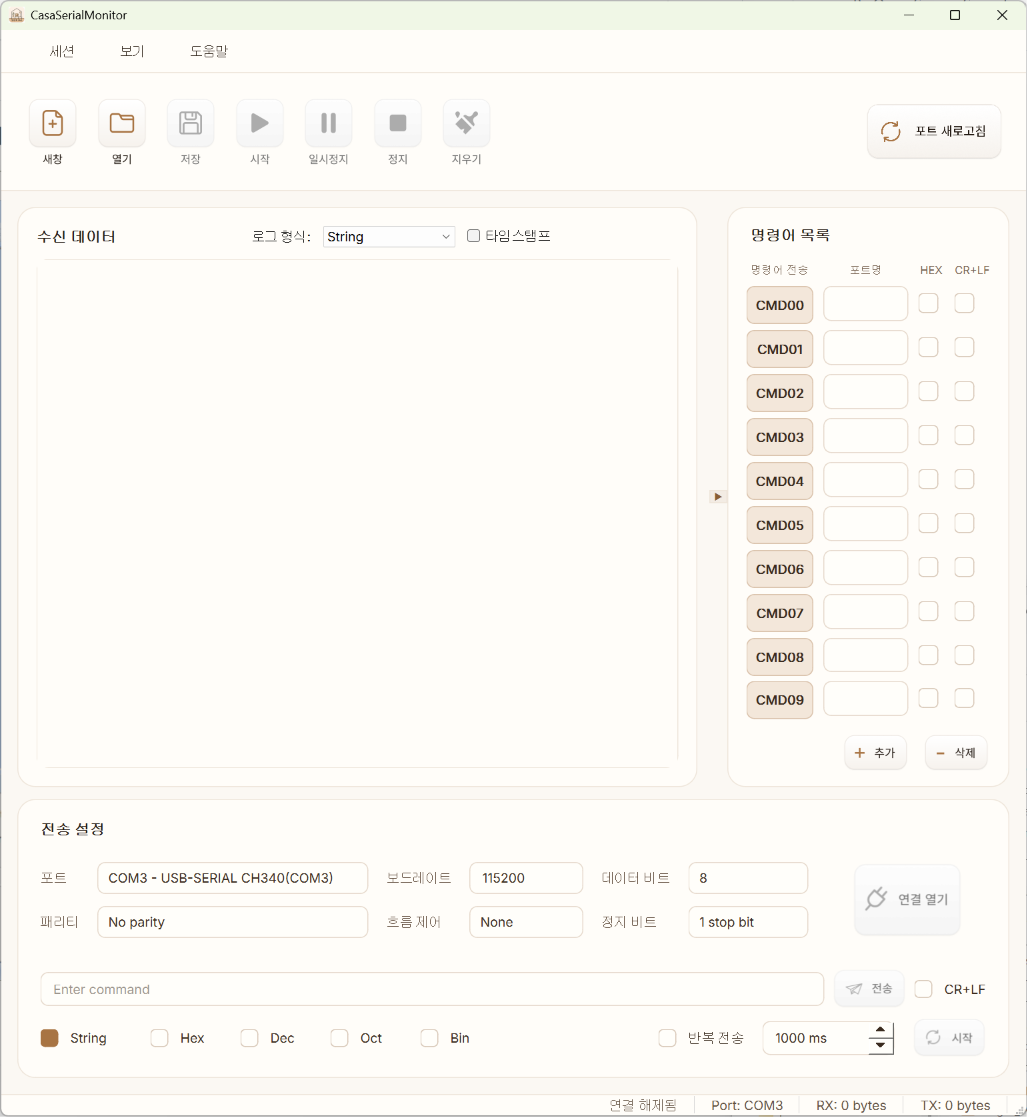
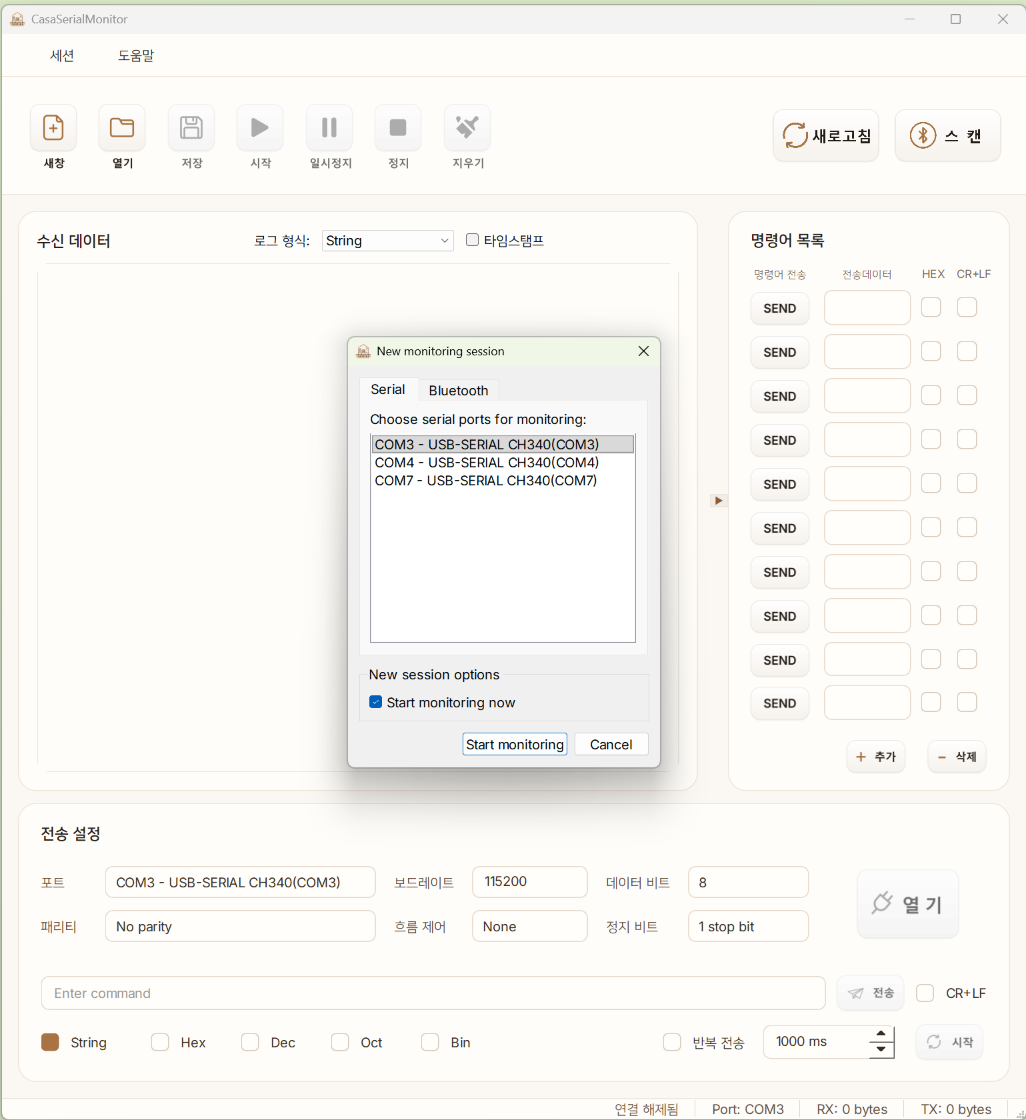
[V.0.01.211] README.md 전면 재작성(상세 사용법, 최신 기능 반영), 스크린샷 갱신

diff --git a/app_resources.py b/app_resources.py
@@ -7,7 +7,7 @@ import sys
 
 
 APP_NAME = "CasaSerialMonitor"
-APP_VERSION = "0.01.210"  # 버전을 올릴 때 installer/CasaSerial.iss의 기본값도 함께 바꾼다
+APP_VERSION = "0.01.211"  # 버전을 올릴 때 installer/CasaSerial.iss의 기본값도 함께 바꾼다
 ICON_RELATIVE_PATH = Path("image") / "CASA_Serial_APP_ICON.png"
 BUTTONS_RELATIVE_PATH = Path("image") / "buttons"
 MAIN_WINDOW_UI_RELATIVE_PATH = Path("UI") / "mainWindow.ui"

diff --git a/README.md b/README.md
@@ -1,27 +1,117 @@
 # CasaSerial
 
-PyQt6와 pyserial 기반의 크로스 플랫폼 시리얼 포트 모니터입니다. Windows 10/11과 macOS를 지원합니다.
+시리얼 포트와 블루투스 LE(Nordic UART Service) 장치의 통신을 한 화면에서 모니터링하고 데이터를 보낼 수 있는 크로스 플랫폼 데스크톱 앱입니다. PyQt6, pyserial, bleak로 만들었고 Windows 10/11과 macOS를 대상으로 합니다.
 
 ![CasaSerial](CasaSerialMonitor.png)
 
+## 목차
+
+- [주요 기능](#주요-기능)
+- [화면 구성](#화면-구성)
+- [사용 방법](#사용-방법)
+- [단축키](#단축키)
+- [저장되는 설정](#저장되는-설정)
+- [요구 사항](#요구-사항)
+- [설치 및 실행](#설치-및-실행)
+- [빌드와 설치 파일 만들기](#빌드와-설치-파일-만들기)
+- [블루투스(BLE) 동작 방식](#블루투스ble-동작-방식)
+- [알려진 제한 사항](#알려진-제한-사항)
+- [프로젝트 구조](#프로젝트-구조)
+- [문서](#문서)
+- [로드맵](#로드맵)
+
 ## 주요 기능
 
-- **포트 스캔**: 시작할 때 사용 가능한 시리얼 포트를 검색하고, `새로고침` 버튼으로 다시 검색
-- **연결 설정**: Port, Baudrate, Databits, Parity, Flow control, Stopbits
-- **멀티 세션(MDI)**: New Session 다이얼로그의 `Serial` / `Bluetooth` 탭에서 포트 또는 BLE 장치를 골라 여러 세션을 동시에 모니터링
-- **송신**: String / Hex / Dec / Oct / Bin 포맷, 입력 유효성 검사 및 자동 포맷, CR+LF 옵션
-- **블루투스(BLE)**: 툴바의 `블루투스 스캔`으로 주변 장치를 검색하고(이름/주소 필터), Nordic UART Service(NUS) 장치에 연결. 연결되면 버튼이 `블루투스 연결종료`로 바뀜. 연결된 세션에서도 시리얼과 동일하게 송수신 가능
-- **반복 송신**: 주기적 자동 송신 (Start/Stop loop)
-- **CMD 패널**: 자주 쓰는 명령을 행 단위로 추가/삭제하며 관리
-- **로그 뷰**: RX/TX/ERR/SESSION 카테고리별 색상, Timestamp 표시, Dump view, 최대 5000라인
-- **UI**: 한국어, 웜 베이지 테마, 반응형 레이아웃
+### 연결
+
+- **시리얼 포트**: Port, Baudrate(9600 ~ 115200 선택, 직접 입력 가능), Data bits(5 ~ 8), Parity(No parity / Odd / Even / Mark / Space), Flow control(None / RTS/CTS / XON/XOFF), Stop bits(1 / 1.5 / 2)를 설정해 연결합니다.
+- **포트 검색**: 앱을 시작할 때 사용 가능한 포트를 검색하고, 툴바의 `새로고침` 버튼으로 다시 검색합니다. (자동으로 반복 검색하지 않습니다.)
+- **블루투스 LE**: 주변 BLE 장치를 스캔해 Nordic UART Service(NUS)를 지원하는 장치에 연결합니다. 연결한 뒤에는 시리얼과 같은 방식으로 송수신합니다.
+- **멀티 세션**: 여러 포트/장치를 동시에 연결해 각각 별도 세션으로 모니터링합니다. 세션이 이미 열려 있는 창에서 새 세션을 열면 별도의 창으로 열립니다.
+
+### 송신
+
+- **전송 형식**: String / Hex / Dec / Oct / Bin 중에서 고릅니다. 입력 내용은 형식에 맞는지 검사하고 자동으로 정리하며, 형식을 바꾸면 입력한 내용도 새 형식으로 변환합니다.
+- **CR+LF**: 체크하면 보내는 데이터 끝에 `\r\n`을 붙입니다.
+- **반복 전송**: 지정한 간격(1 ms ~ 3,600,000 ms)으로 같은 데이터를 계속 보냅니다.
+- **명령어 목록**: 자주 쓰는 명령어를 행마다 저장해 두고 `SEND` 버튼으로 바로 보냅니다. 행마다 HEX / CR+LF를 따로 지정하고, 행은 최대 20개까지 추가/삭제할 수 있습니다. 내용은 연결 대상(포트 또는 블루투스 장치)별로 따로 저장됩니다.
+
+### 수신 로그
+
+- **로그 형식**: String / Hex / Dec / Oct / Bin으로 표시하고, 타임스탬프를 켜고 끌 수 있습니다.
+- **Dump view**: 로그 형식이 `Hex`이면 `HEX 값  |  ASCII` 형태로 함께 보여 줍니다. `String`이면 HEX 없이 문자열만 표시합니다. (`\r`, `\n`, `\t`는 눈에 보이는 문자로 표시)
+- **색상 구분**: RX(파랑) / TX(초록) / SESSION(회색) / ERR(빨강)으로 구분하고, 로그는 최대 5,000줄까지 유지합니다.
+- **저장/열기**: 수신한 데이터를 16바이트씩 줄바꿈한 HEX 텍스트 파일(`.cas`)로 저장하고, 저장한 파일을 열어 다시 볼 수 있습니다. 열기는 저장된 파일을 세션 창으로 불러옵니다.
+
+### 화면
+
+- 한국어 화면, 웜 베이지 테마, 창 크기에 맞춰 늘어나는 레이아웃
+- 영문/숫자는 Inter, 한글은 나눔스퀘어, 로그는 D2Coding 폰트를 사용합니다.
+- 오른쪽 `명령어 목록` 패널은 가운데 작은 화살표 버튼으로 접고 펼 수 있습니다.
+
+## 화면 구성
+
+| 영역 | 설명 |
+| --- | --- |
+| 메뉴 | `세션`(포트 새로고침, 세션 닫기), `도움말`(이 앱에 관하여) |
+| 툴바 | `새창` 세션 추가, `열기` 저장한 로그 열기, `저장` 수신 데이터 저장, `지우기` 로그 지우기, `새로고침` 포트 다시 검색, `스캔` 블루투스 스캔 |
+| 수신 데이터 | 세션별 로그 창, 위쪽에서 로그 형식과 타임스탬프 지정 |
+| 명령어 목록 | `SEND` 버튼, 전송 데이터, HEX / CR+LF 지정 |
+| 전송 설정 | 포트와 시리얼 설정, 오른쪽의 연결 열기/닫기 버튼 |
+| 전송 | 명령 입력창, 전송 형식, CR+LF, 반복 전송 |
+| 상태 표시줄 | 연결 상태, 포트(또는 블루투스 장치), RX/TX 바이트 수 |
+
+툴바의 `시작`, `일시정지`, `정지` 버튼은 자리만 있고 아직 동작하지 않습니다. (비활성 상태)
+
+## 사용 방법
+
+### 시리얼 포트로 연결
+
+1. 앱을 시작하면 `New monitoring session` 창이 자동으로 열립니다. (툴바의 `새창`으로도 열 수 있습니다.)
+2. `Serial` 탭에서 포트를 고르고 `Start monitoring`을 누릅니다. 포트를 더블클릭해도 같습니다.
+3. `Start monitoring now`가 체크돼 있으면 세션을 만들면서 바로 연결합니다. 체크를 풀었다면 아래 `전송 설정`에서 보드레이트 등을 바꾼 뒤 오른쪽의 연결 버튼(`열 기`)을 눌러 연결합니다.
+4. 수신한 데이터는 로그 창에 표시됩니다. 아래 전송 영역에서 명령을 입력하고 `전송`(또는 Enter)을 누르면 보냅니다.
+
+### 블루투스(BLE)로 연결
+
+1. 툴바의 `스캔` 버튼을 누르거나, `New monitoring session` 창의 `Bluetooth` 탭을 엽니다. 창이 열려 있는 동안 주변 장치를 계속 검색합니다.
+2. 필터 입력창에 장치 이름이나 주소의 일부를 적어 목록을 줄입니다. 이름이 없는 장치는 `(이름 없음)`으로 표시됩니다.
+3. 장치를 선택하고 `연결`(또는 더블클릭)을 누릅니다. 연결되면 새 세션 창이 열립니다.
+4. 블루투스 세션에서는 `전송 설정`의 시리얼 항목이 흐리게 표시되고, 제목 옆에 `기기명 연결됨`(이름이 없으면 BD 주소)이 나옵니다.
+5. 툴바의 블루투스 버튼이 `연결종료`로 바뀝니다. 누르면 연결을 끊습니다. 끊긴 세션은 `전송 설정` 오른쪽의 연결 버튼으로 같은 장치에 다시 연결할 수 있습니다.
+
+### 여러 세션 / 별도 창
+
+- 세션이 하나도 없는 창에서 세션을 열면 그 창에 열리고, 창을 꽉 채워 보여 줍니다.
+- 세션이 이미 있는 창에서 `새창`이나 `스캔`으로 새 세션을 열면 **새 창**이 추가로 열립니다. 새 창에도 같은 툴바, 전송 영역, 명령어 목록이 있어 각 창에서 독립적으로 송수신합니다.
+- 같은 시리얼 포트는 한 번에 한 곳에서만 열 수 있습니다. (운영체제 제한)
+
+### 명령어 목록 사용
+
+- 전송 데이터를 입력하고 `SEND`를 누르면 현재 선택된 세션으로 보냅니다. `HEX`를 체크하면 `41 54`처럼 HEX 값으로 입력하고, `CR+LF`를 체크하면 끝에 `\r\n`을 붙입니다.
+- 목록은 연결 대상별로 따로 저장됩니다. 포트는 포트 이름(예: `COM7`), 블루투스는 장치 이름(이름이 없으면 주소) 기준입니다. 세션을 바꾸면 그 대상의 목록으로 바뀌고, 처음 연결하는 대상은 빈 목록(10행)으로 시작합니다.
+- `추가`, `삭제`로 행을 늘리거나 줄입니다. (1 ~ 20행)
+
+## 단축키
+
+| 키 | 동작 |
+| --- | --- |
+| `Ctrl+W` | 현재 세션 닫기 (연결 중이면 연결을 끊고 닫음) |
+| `Ctrl+X` | 로그 창에서 로그 지우기 |
+
+## 저장되는 설정
+
+- 명령어 목록(전송 데이터, HEX / CR+LF 지정, 행 수)을 연결 대상별로 저장합니다. 앱을 닫을 때, `SEND`로 전송에 성공했을 때, 다른 세션으로 전환할 때 저장합니다.
+- 저장 위치: Windows는 레지스트리 `HKEY_CURRENT_USER\Software\CasaSerial\CasaSerial`, macOS는 사용자 환경설정(plist)입니다.
+- 여러 창에서 같은 대상을 동시에 쓰면 마지막으로 저장한 창의 내용이 남습니다.
 
 ## 요구 사항
 
-- Python 3.10 이상
+- Python 3.10 이상 (3.11에서 개발하고 확인했습니다)
 - PyQt6 >= 6.6
 - pyserial >= 3.5
 - bleak >= 0.22 (블루투스 LE)
+- 블루투스를 쓰려면 블루투스 어댑터가 있어야 하며, 운영체제에서 블루투스가 켜져 있어야 합니다.
 
 ## 설치 및 실행
 
@@ -30,43 +120,86 @@ pip install -r requirements.txt
 python main.py
 ```
 
-- Windows: `run.bat` 실행 (`.venv`가 있으면 자동 사용)
+- Windows: `run.bat`을 실행합니다. 가상환경(`.venv`)이 있으면 자동으로 사용하고, 터미널 창 없이 앱만 실행합니다. 오류 메시지를 보려면 `run.bat --console`로 실행합니다.
 - macOS: `./run_mac.sh`
 
-## 빌드 (PyInstaller)
+## 빌드와 설치 파일 만들기
 
-| 플랫폼 | 명령 | 결과 |
+빌드 결과는 모두 `WIN`(Windows) 또는 `MAC`(macOS) 폴더 아래에 만들어지며, 이 폴더는 Git에 올라가지 않습니다.
+
+| 목적 | 명령 | 결과 |
 | --- | --- | --- |
-| Windows | `.\build_win.bat` | `WIN\CasaSerial\CasaSerial.exe` |
-| Windows 설치 파일 | `.\build_setup.bat` (Inno Setup 필요) | `WIN\Setup\CasaSerial_Setup_<버전>.exe` |
-| macOS | `./build_mac.sh` | `MAC/CasaSerial.app` |
+| Windows 실행 파일 | `.\build_win.bat` | `WIN\CasaSerial\CasaSerial.exe` |
+| Windows 설치 파일 | `.\build_setup.bat [버전]` | `WIN\Setup\CasaSerial_Setup_<버전>.exe` |
+| macOS 앱 | `./build_mac.sh` | `MAC/CasaSerial.app` |
+
+- 필요한 도구: PyInstaller(`pip install pyinstaller`), 설치 파일은 [Inno Setup 6](https://jrsoftware.org/isdl.php)
+- 설치 파일은 관리자 권한 없이 사용자 폴더(`%LOCALAPPDATA%\Programs\CasaSerial`)에 설치하며, 시작 메뉴 바로가기와 제거 항목을 만듭니다. 바탕화면 아이콘은 설치 중에 선택합니다. 한국어/영어를 지원합니다.
+- `build_setup.bat 0.01.211`처럼 버전을 지정할 수 있고, `--skip-build`를 붙이면 이미 만든 앱을 다시 쓰고 설치 파일만 만듭니다.
+- 버전을 올릴 때는 `app_resources.py`의 `APP_VERSION`과 `installer/CasaSerial.iss`의 기본 버전을 함께 바꿉니다. (`이 앱에 관하여`에 표시되는 버전입니다.)
+- macOS 빌드 스크립트는 블루투스 사용 목적 문구를 앱 `Info.plist`에 넣고 다시 서명합니다.
 
 자세한 내용은 [packaging.md](packaging.md)를 참고하세요.
 
-## 파일 구조
+## 블루투스(BLE) 동작 방식
 
-| 파일 | 설명 |
-| --- | --- |
-| `main.py` | 앱 진입점 |
-| `main_window.py` | 메인 윈도우 (UI, 포트 스캔, 설정 매핑, 이벤트 처리) |
-| `monitor_subwindow.py` | 세션별 MDI 모니터 서브 윈도우 |
-| `new_session_dialog.py` | New Session 다이얼로그 |
-| `serial_worker.py` | `QThread` 기반 시리얼 I/O 워커 |
-| `ble_worker.py` | BLE(Nordic UART) 연결 워커와 장치 스캐너 |
-| `ble_scan_dialog.py` | 블루투스 스캔 다이얼로그 (필터, 장치 목록, 연결) |
-| `settings.py` | `SerialSettings` 데이터클래스 |
-| `app_resources.py` | 리소스 경로 처리 |
-| `UI/`, `image/`, `Fonts/` | UI 파일, 이미지, 폰트 |
+- **지원하는 서비스**: Nordic UART Service(NUS) 하나입니다.
+
+  | 항목 | UUID | 방향 |
+  | --- | --- | --- |
+  | Service | `6E400001-B5A3-F393-E0A9-E50E24DCCA9E` | |
+  | RX 특성 | `6E400002-B5A3-F393-E0A9-E50E24DCCA9E` | 앱 → 장치 (쓰기) |
+  | TX 특성 | `6E400003-B5A3-F393-E0A9-E50E24DCCA9E` | 장치 → 앱 (notify) |
+
+- **수신**: TX 특성의 notify로 들어오는 데이터를 약 10 ms 동안 모아서 한 번에 로그에 표시합니다.
+- **송신**: 데이터를 MTU에 맞게 나눠서 RX 특성에 씁니다. 전송이 끝나면 TX 바이트 수가 늘어납니다.
+- **오류 처리**: 장치에 NUS가 없거나, 연결에 실패하거나, 연결이 끊어지면 세션 로그와 상태 표시줄에 메시지를 보여 줍니다.
+- 스캔은 NUS를 광고하는 장치만 걸러서 보여 주지 않고, 주변에서 보이는 BLE 장치를 모두 보여 줍니다. NUS를 지원하는 장치인지는 연결할 때 확인합니다.
+
+## 알려진 제한 사항
+
+- 툴바의 `시작`, `일시정지`, `정지` 버튼은 아직 동작하지 않습니다.
+- 파일을 선택해서 보내는 기능은 아직 없습니다.
+- 블루투스는 Nordic UART Service만 지원합니다.
+- macOS용 빌드와 블루투스 동작은 이 저장소의 개발 환경(Windows)에서 확인하지 못했습니다.
+- 설치 파일에 코드 서명이 없어서, 다른 PC에서 실행하면 Windows SmartScreen 경고가 뜰 수 있습니다.
+
+## 프로젝트 구조
+
+```text
+.
+├─ main.py                  앱 진입점 (폰트 등록, 첫 세션 창 열기)
+├─ main_window.py           메인 창: UI, 포트 검색, 세션 관리, 송신, 명령어 목록
+├─ monitor_subwindow.py     세션별 로그 창 (MDI 서브 창)
+├─ new_session_dialog.py    New Session 창 (Serial / Bluetooth 탭)
+├─ ble_scan_dialog.py       블루투스 스캔 패널과 스캔 창
+├─ serial_worker.py         QThread 기반 시리얼 I/O 워커
+├─ ble_worker.py            BLE(NUS) 연결 워커와 장치 스캐너
+├─ settings.py              SerialSettings, BleSettings
+├─ app_resources.py         리소스 경로, 앱 이름과 버전
+├─ UI/mainWindow.ui         메인 창 레이아웃
+├─ image/                   앱 아이콘, 버튼 이미지(buttons), 아이콘(icons)
+├─ Fonts/                   Inter, 나눔스퀘어, D2Coding
+├─ installer/CasaSerial.iss Inno Setup 스크립트
+├─ build_win.bat            Windows 실행 파일 빌드
+├─ build_setup.bat          Windows 설치 파일 빌드
+├─ build_mac.sh             macOS 앱 빌드
+├─ run.bat, run_mac.sh      실행 스크립트
+└─ requirements.txt         의존 패키지
+```
+
+시리얼과 블루투스 워커는 같은 시그널/메서드(`data_received`, `bytes_written`, `error_occurred`, `port_opened`, `port_closed`, `write_data`, `stop` 등)를 제공해서, 세션 창이 연결 종류와 상관없이 같은 방식으로 사용합니다.
 
 ## 문서
 
-- [History.md](History.md): 개발 이력 (작업 내용 지속 기록)
+- [History.md](History.md): 개발 이력. 작업 내용을 계속 기록합니다.
 - [packaging.md](packaging.md): 패키징 가이드
 - [memory.md](memory.md): 작업 재개용 메모
+- [CLAUDE.md](CLAUDE.md): 이 저장소의 작업 규칙 (커밋 형식, 기록 규칙)
 
 ## 로드맵
 
-- 파일 송신 기능 (`QFileDialog`, chunk 단위 송신)
+- 파일 송신 기능 (파일 선택, 큰 파일은 나눠서 전송해 화면이 멈추지 않게)
 - Bridge 모드 (가상 포트 기반 소프트웨어 시리얼 프록시)
 
 자세한 계획은 [History.md](History.md)의 "나중에 할 일"을 참고하세요.

diff --git a/History.md b/History.md
@@ -1415,6 +1415,26 @@
 
 - 오프스크린: 메뉴 막대가 `세션`, `도움말`뿐이고 `도움말` 아래에 `이 앱에 관하여`가 있으며, 실행하면 앱 이름/버전/설명이 담긴 대화상자 내용이 만들어짐을 확인. 이전 BLE UI / CMD 대상별 저장 회귀 테스트 통과.
 
+## 2026-11-12 - README.md 전면 재작성
+
+변경 파일:
+
+- `README.md`
+- `CasaSerialMonitor.png` (사용자가 갱신한 스크린샷)
+- `app_resources.py`, `installer/CasaSerial.iss` (버전 `0.01.211`)
+- `History.md`
+
+핵심 변경 사항:
+
+- README를 현재 기능과 화면에 맞춰 처음부터 다시 썼다. 목차, 주요 기능(연결 / 송신 / 수신 로그 / 화면), 화면 구성 표, 사용 방법(시리얼 / 블루투스 / 여러 세션과 별도 창 / 명령어 목록), 단축키, 저장되는 설정, 요구 사항, 설치 및 실행, 빌드와 설치 파일 만들기, 블루투스 동작 방식(NUS UUID 표 포함), 알려진 제한 사항, 프로젝트 구조, 문서, 로드맵 순서다.
+- 오래된 정보를 갱신했다: 자동 포트 갱신(제거됨), 버튼 이름(`새로고침`, `스캔`, `SEND`), 블루투스 지원, 별도 창 동작, 설치 파일 빌드, 파일 구조(`ble_*`, `installer/`, `build_setup.bat` 등), `run.bat`의 터미널 창 숨김과 `--console` 옵션.
+- 코드로 확인한 사실만 적었다. 툴바의 `시작`/`일시정지`/`정지` 버튼은 비활성 자리표시자라 "알려진 제한 사항"에 명시했고, macOS 빌드/블루투스와 설치 파일 코드 서명 없음도 제한 사항에 적었다.
+- 앱 버전을 `0.01.211`로 올렸다(`APP_VERSION`, 설치 스크립트 기본 버전).
+
+검증 결과:
+
+- README의 목차 링크(앵커)와 명시한 값(보드레이트 목록, 반복 전송 간격 범위 1 ~ 3,600,000 ms, 행 수 1 ~ 20, 단축키, 로그 최대 5,000줄, NUS UUID)을 코드/UI 파일과 대조해 확인했다.
+
 ## 나중에 할 일
 
 ### 파일 송신 기능
